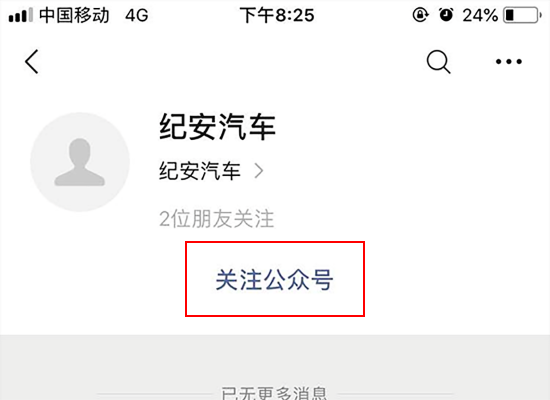
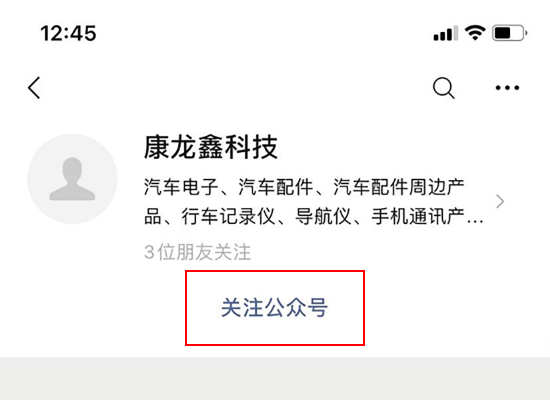
微信公众号图片 文字修改

diff --git a/item2/关注微信公众号.html b/item2/关注微信公众号.html
@@ -20,7 +20,7 @@
 				<div class="p-l-r-15">
 					<div class="title">步骤一</div>
 					<p class="textIndex">
-						在微信中搜索“纪安汽车”<span class="c-red underline">(复制公众号)</span>，选择公众号，如下图所示：
+						在微信中搜索“康龙鑫科技”<span class="c-red underline">(复制公众号)</span>，选择公众号，如下图所示：
 					</p>
 					<div class="df jc p-t-b-15">
 						<img class="wxImg" width="225" src="img/personal/followImg1.png">
@@ -28,7 +28,7 @@
 					<a id="officialAccount" href="#" class="gradualBtn blockBtn df ac jc m-b-20">复制公众号</a>
 					<div class="title">步骤二</div>
 					<p class="textIndex">
-						选择第一个“纪安汽车，然后点击关注公众号；
+						选择第一个“康龙鑫科技，然后点击关注公众号；
 					</p>
 					<div class="df jc p-t-b-15">
 						<img class="wxImg" width="225" src="img/personal/followImg2.png">
